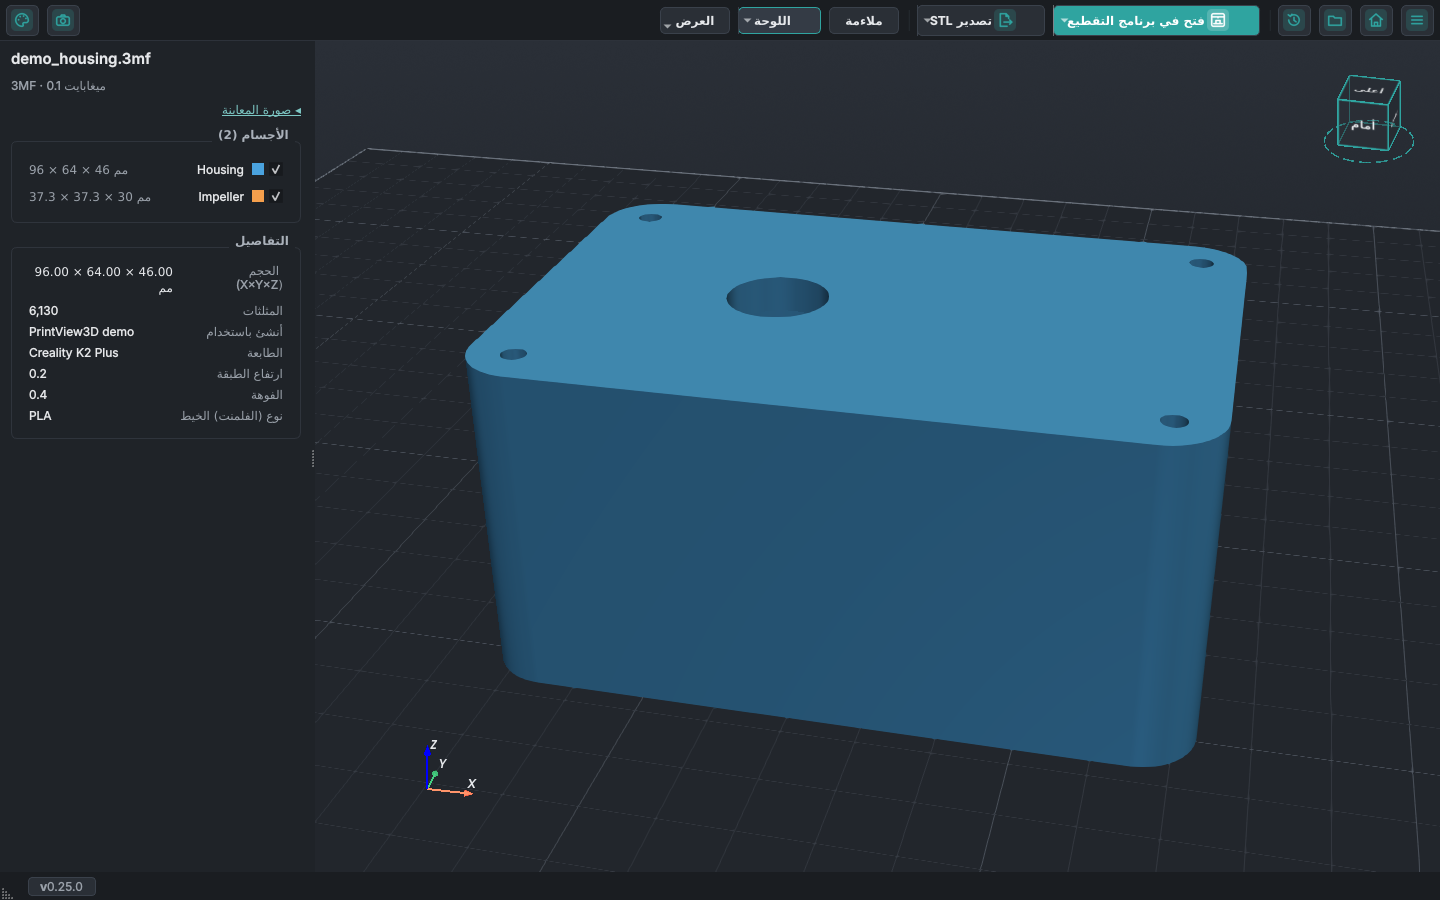
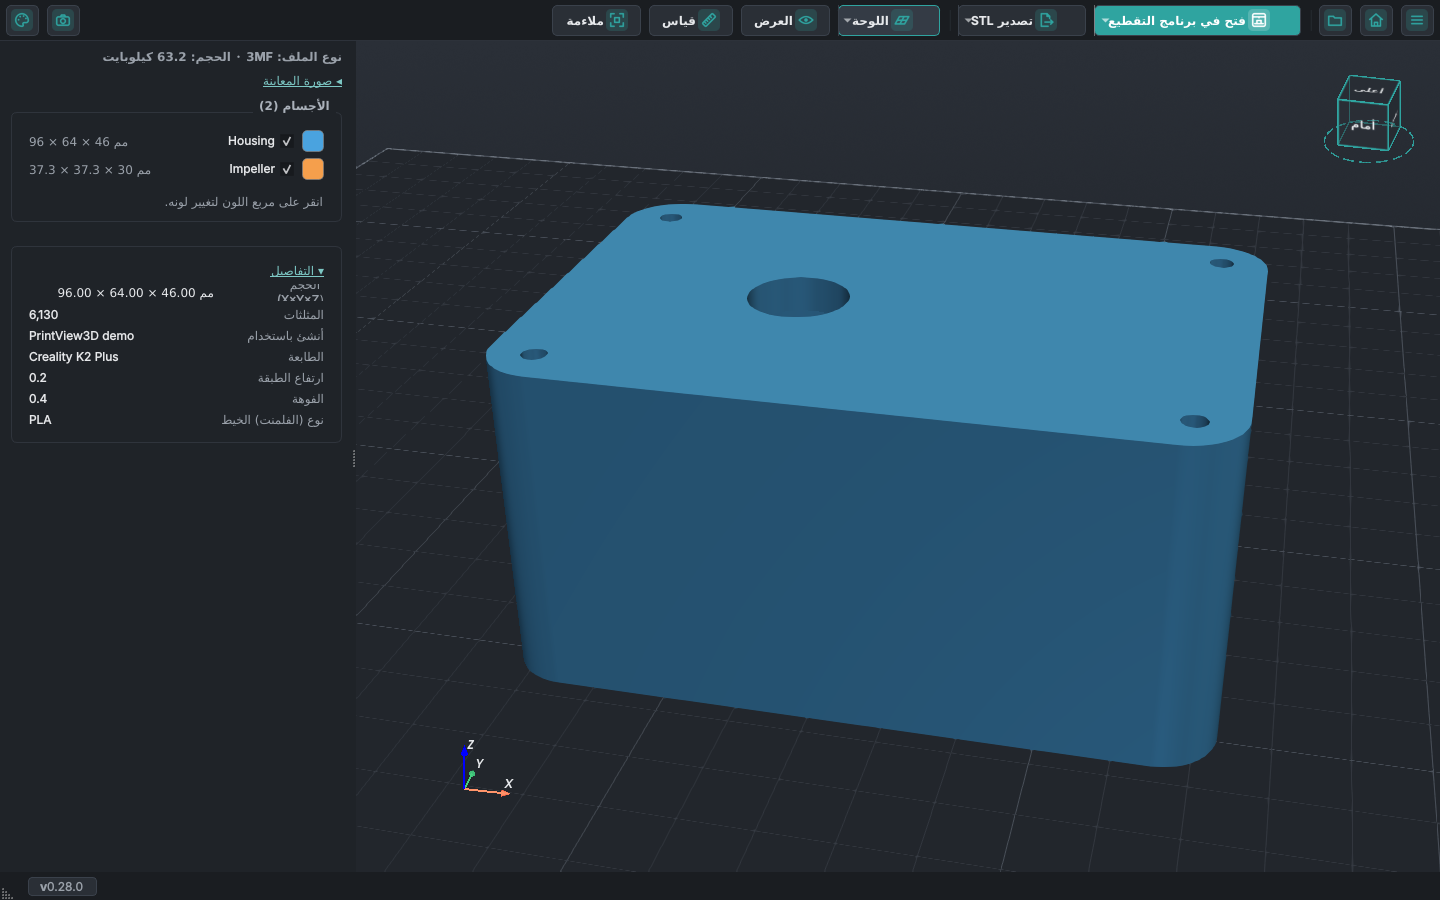
Website: pictures of Measure, the View section, object colours and grid numbers (en/ar/nl)
tools/make_clips.py now also makes measure, colors and grid-numbers pictures; the
existing stills are re-made from 0.28, so they show the View section and the new side panel.

diff --git a/tools/make_clips.py b/tools/make_clips.py
@@ -125,9 +125,50 @@ class Capture:
 
     def off(self):
         w = self.w
-        for a in (w.act_wireframe, w.act_xray, w.act_clip, w.act_clip_face):
+        for a in (w.act_wireframe, w.act_xray, w.act_clip, w.act_clip_face, w.act_measure):
             if a.isChecked():
                 a.setChecked(False)
+        for i in range(len(w.scene.model_actors)):           # the file's own colours again
+            w.scene.set_part_color(i, None)
+        self.show_colors()
+        w.grid_labels.set_enabled(False)
+        w.act_view.setChecked(False)                      # the View section closed
+        self.settle()
+
+    def show_colors(self):
+        """The colour boxes in the Objects list follow the colours the parts are drawn in."""
+        from printview3d.ui.main_window import _ColorButton
+        w = self.w
+        n = len(w.model.parts)
+        for i, box in enumerate(w.findChildren(_ColorButton)):
+            if i < n:
+                box.set_color(w._object_color(i, w.model.parts[i], n))
+
+    def measurements(self):
+        """Measure on, with one of each kind on the housing (world coordinates, mm): the height
+        of the front wall with its ΔX ΔY ΔZ, the right angle of the top front edge, and the
+        14 mm inlet on top (Ø 14, R 7)."""
+        import math
+        import numpy as np
+        from printview3d.ui.measure import Item
+        w = self.w
+        w.measure_deltas_cb.setChecked(True)
+        w.choose_measure_mode("distance")           # turns Measure on, the section opens
+        self.settle()
+        m = w.measure
+        cx, cy, top = 175.0, 175.0, 46.0           # see tools/make_inside_demo.py
+        front = cy - 32.0
+        dist = Item("distance")
+        dist.points = [np.array(p) for p in ((205.0, front, top), (205.0, front, 0.0))]
+        ang = Item("angle")
+        ang.points = [np.array(p) for p in ((150.0, front + 16.0, top), (150.0, front, top), (150.0, front, top - 20.0))]
+        circ = Item("circle")
+        circ.points = [np.array((cx - 14.0 + 7.0 * math.cos(t), cy + 7.0 * math.sin(t), top))
+                       for t in (math.radians(200), math.radians(300), math.radians(60))]
+        m.items = [dist, ang, circ]
+        m.current = dist
+        m.hover_point = None
+        m._update()
         self.settle()
 
 
@@ -187,6 +228,36 @@ def make_stills(c: Capture, lang: str):
     w.act_xray.setChecked(True)
     c.still(f"xray-clip{sfx}.png")                  # options work together
     c.off()
+    # 0.28: Measure, the object colours.
+    c.iso()
+    c.measurements()
+    c.still(f"measure{sfx}.png")                    # distance with ΔX ΔY ΔZ, angle, circle
+    c.off()
+    c.iso()
+    w.act_xray.setChecked(True)                     # see-through, so the impeller shows too
+    w.act_view.setChecked(False)
+    w.scene.set_part_color(0, "#ef791b")            # Ember orange and teal
+    w.scene.set_part_color(1, "#2cc1b2")
+    c.show_colors()
+    c.still(f"colors{sfx}.png")
+    c.off()
+
+
+def make_grid(c: Capture):
+    """The numbers along the plate (3D view only, the same in every language)."""
+    w = c.w
+    c.off()
+    w.grid_labels.set_step(0)
+    w.grid_labels.set_enabled(True)
+    w.scene.set_view("iso", render=False)
+    cam = w.plotter.camera
+    cam.Azimuth(-20)
+    cam.Elevation(14)
+    cam.Zoom(0.36)
+    c.render()
+    c.frame().save(os.path.join(c.out, "grid-numbers.png"), optimize=True)
+    print("   grid-numbers.png")
+    c.off()
 
 
 def main():
@@ -208,6 +279,8 @@ def main():
         c.open(lang)
         if i == 0 and not a.no_videos:
             make_videos(c)
+        if i == 0:
+            make_grid(c)
         make_stills(c, lang)
     c.w.close()
 

diff --git a/docs/inspect.ar.md b/docs/inspect.ar.md
@@ -94,12 +94,16 @@
 والقيم التي قد تتداخل، مثل الدوائر متحدة المركز، تُرتَّب فوق بعضها. ولا يزيل **إعادة ضبط العرض**
 قياساتك. *جديد في PrintView3D 0.28.*
 
+![مسافة مع ΔX ΔY ΔZ، وزاوية قائمة، وقطر فتحة الدخول، مقيسة على غلاف المضخة](assets/inside/measure.ar.png)
+
 ## الألوان واللوحة الجانبية
 
 تأتي قائمة **الأجسام** أولاً في اللوحة الجانبية و**التفاصيل** في الأسفل؛ انقر على *التفاصيل* لطيّها
 (ويُحفظ اختيارك). وفي الأعلى ترى نوع الملف وحجمه. انقر على مربع لون جسم لتختار لوناً آخر لهذا الجسم
 وحده؛ وانقر عليه بزر الماوس الأيمن للعودة إلى لون الملف. لا تُحفظ الألوان التي تختارها: تعود كما كانت
 بعد إعادة التشغيل. *جديد في PrintView3D 0.28.*
+
+![الغلاف والمروحة بألوان من اختيارك، مع الأشعة السينية](assets/inside/colors.ar.png)
 
 ## المسافات على الشبكة
 
@@ -109,6 +113,8 @@
 وتبقى قائمة أياً كان اتجاه نظرك، وتختفي عند النظر من أسفل اللوحة. ومع الشبكة اللانهائية تتبع المنطقة
 المحيطة بالنموذج. ويختار **المسافة بين الأرقام** مسافة أخرى، من 5 إلى 100 مم، بدلاً من المسافة
 التلقائية. *جديد في PrintView3D 0.28.*
+
+![المسافات بالمليمتر على طول حواف لوحة الطباعة](assets/inside/grid-numbers.png)
 
 ## المفاتيح
 

diff --git a/docs/index.ar.md b/docs/index.ar.md
@@ -21,10 +21,15 @@ hide:
 بنقرة واحدة. تصمّم في FreeCAD؟ افتح ملف `.FCStd` وأرسله إلى برنامج التقطيع كنموذج مباشرةً، دون تصدير
 ملف STL أولًا.
 
-## جديد: انظر داخل نماذجك
+## جديد: القياس والنظر داخل نماذجك
+
+**جديد في 0.28: القياس.** انقر على نقطتين لقياس مسافة (مع ΔX ΔY ΔZ)، أو على ثلاث نقاط لقياس زاوية أو
+قطر ثقب. تلتقط النقاط الزوايا والحواف تلقائياً، وتُكتب كل قيمة بجانب قياسها مباشرة.
+
+![قياس مسافة وزاوية وثقب على غلاف مضخة](assets/inside/measure.ar.png)
 
 أدِر النموذج عبر قطع يواجهك دائماً، أو اقطعه من الأعلى، أو استخدم القطعين معاً لقطع زاوية منه. ويبقى
-ما يزيله القطع ظاهراً كشبح شفاف. اجعله شفافاً، واعرف حجم كل جسم.
+ما يزيله القطع ظاهراً كشبح شفاف. اجعله شفافاً، وأعطِ كل جسم لوناً من اختيارك، واعرف حجم كل جسم.
 
 <video class="pv-video" src="../assets/inside/clip-facing.mp4" poster="../assets/inside/clip-facing.jpg"
        autoplay loop muted playsinline preload="metadata" aria-label="غلاف مضخة يدور عبر قطع عمودي فيظهر ما في داخله"></video>

diff --git a/docs/inspect.md b/docs/inspect.md
@@ -100,6 +100,8 @@ draws the lines as dots. How thick the lines are is a slider in **Settings → V
 (**Measurement lines**). Values that would overlap, such as concentric circles, are stacked above
 each other. **Reset view** leaves your measurements in place. *New in PrintView3D 0.28.*
 
+![A distance with its ΔX ΔY ΔZ, a right angle and the diameter of the inlet, measured on the pump housing](assets/inside/measure.png)
+
 ## Colours and the side panel
 
 The **Objects** list comes first in the side panel and the **Details** last; click *Details* to fold
@@ -107,6 +109,8 @@ them away (the choice is remembered). At the top you see the file type and size.
 box of an object to pick another colour for that object alone; right-click it to go back to the
 colour from the file. Colours you pick are not saved: they are back to normal after you restart.
 *New in PrintView3D 0.28.*
+
+![The housing and the impeller in colours of your own choice, seen with X-ray](assets/inside/colors.png)
 
 ## Distances on the grid
 
@@ -117,6 +121,8 @@ edges nearest to you, in the grid's own colour, stay upright whichever way you l
 you look from under the plate. With the endless grid they follow the area around the model.
 **Spacing of the numbers** chooses another spacing, from 5 to 100 mm (for example 10 mm), instead
 of the automatic one. *New in PrintView3D 0.28.*
+
+![Distances in millimetres along the edges of the build plate](assets/inside/grid-numbers.png)
 
 ## Keys
 

diff --git a/docs/inspect.nl.md b/docs/inspect.nl.md
@@ -102,6 +102,8 @@ punt op een rand. **Stippellijn** tekent de lijnen gestippeld. Hoe dik de lijnen
 concentrische cirkels, komen boven elkaar te staan. **Weergave herstellen** laat je metingen staan.
 *Nieuw in PrintView3D 0.28.*
 
+![Een afstand met ΔX ΔY ΔZ, een rechte hoek en de diameter van de inlaat, gemeten op het pomphuis](assets/inside/measure.nl.png)
+
 ## Kleuren en het zijpaneel
 
 De lijst **Objecten** staat bovenaan in het zijpaneel en **Details** onderaan; klik op *Details* om ze
@@ -109,6 +111,8 @@ in te klappen (de keuze wordt onthouden). Bovenaan zie je het bestandstype en de
 kleurvak van een object om alleen dat object een andere kleur te geven; rechtsklik zet de kleur uit het
 bestand terug. Gekozen kleuren worden niet opgeslagen: na een herstart is alles weer zoals het was.
 *Nieuw in PrintView3D 0.28.*
+
+![Het huis en de waaier in zelfgekozen kleuren, met röntgen](assets/inside/colors.nl.png)
 
 ## Afstanden op het raster
 
@@ -119,6 +123,8 @@ buiten de twee randen die het dichtst bij je zijn, in de kleur van het raster, b
 ook kijkt, en verdwijnen als je van onder de plaat kijkt. Bij het oneindige raster volgen ze het gebied
 rond het model. **Afstand tussen de getallen** kiest een andere afstand, van 5 tot 100 mm, in plaats
 van de automatische. *Nieuw in PrintView3D 0.28.*
+
+![Afstanden in millimeters langs de randen van de printplaat](assets/inside/grid-numbers.png)
 
 ## Toetsen
 

diff --git a/docs/index.nl.md b/docs/index.nl.md
@@ -21,11 +21,17 @@ printtijd en het filamentverbruik, en stuurt het bestand met één klik naar Cre
 Bambu Studio, PrusaSlicer, Cura en andere. Ontwerp je in FreeCAD? Open het `.FCStd`-bestand en stuur het
 direct als model naar je slicer, zonder eerst een STL te exporteren.
 
-## Nieuw: in je modellen kijken
+## Nieuw: meten en in je modellen kijken
+
+**Nieuw in 0.28: Meten.** Klik op twee punten voor een afstand (met ΔX ΔY ΔZ), op drie voor een hoek of
+voor de diameter van een gat. Punten springen naar hoeken en randen, en bij elke meting staat de waarde
+er direct naast.
+
+![Een afstand, een hoek en een gat meten op een pomphuis](assets/inside/measure.nl.png)
 
 Draai een model door een snede die altijd naar je toe gericht is, snijd het van boven af, of gebruik
 beide sneden tegelijk om er een hoek uit te snijden. Wat de snede wegneemt blijft zichtbaar als een
-doorzichtige schim. Maak het doorzichtig en zie de maat van elk object.
+doorzichtige schim. Maak het doorzichtig, geef elk object een eigen kleur en zie de maat van elk object.
 
 <video class="pv-video" src="../assets/inside/clip-facing.mp4" poster="../assets/inside/clip-facing.jpg"
        autoplay loop muted playsinline preload="metadata" aria-label="Een pomphuis draait door een rechtopstaande snede en laat zijn binnenkant zien"></video>

diff --git a/docs/index.md b/docs/index.md
@@ -21,11 +21,17 @@ file to Creality Print, OrcaSlicer, Bambu Studio, PrusaSlicer, Cura and others w
 Designing in FreeCAD? Open the `.FCStd` file and send it to your slicer as a model directly,
 without exporting an STL first.
 
-## New: look inside your models
+## New: measure and look inside your models
+
+**New in 0.28: Measure.** Click two points for a distance (with ΔX ΔY ΔZ), three for an angle or for
+the diameter of a hole. Points snap to corners and edges, and every value is written right next to
+its measurement.
+
+![Measuring a distance, an angle and a hole on a pump housing](assets/inside/measure.png)
 
 Turn a model through a cut that always faces you, slice it from the top, or use both cuts at once to
-cut a corner away. What the cut takes away stays as a see-through ghost. Make it see-through, and see
-the size of every object.
+cut a corner away. What the cut takes away stays as a see-through ghost. Make it see-through, give
+each object a colour of your own, and see the size of every object.
 
 <video class="pv-video" src="assets/inside/clip-facing.mp4" poster="assets/inside/clip-facing.jpg"
        autoplay loop muted playsinline preload="metadata" aria-label="A pump housing turning through an upright cut, showing its insides"></video>

diff --git a/README.md b/README.md
@@ -317,6 +317,8 @@ The options stay on when you open the next model, and work together (X-ray and c
 
 ### Measure, object colours and grid numbers
 
+![Measuring a distance, an angle and a hole](docs/assets/inside/measure.png)
+
 - **Measure** (`M`, the button next to **View**): **Distance** (with ΔX ΔY ΔZ if you like),
   **Angle** and **Circle** (diameter and radius). A click places a point, a drag still turns the
   view, and a placed point can be dragged. Points snap to corners and edges; the value is written
